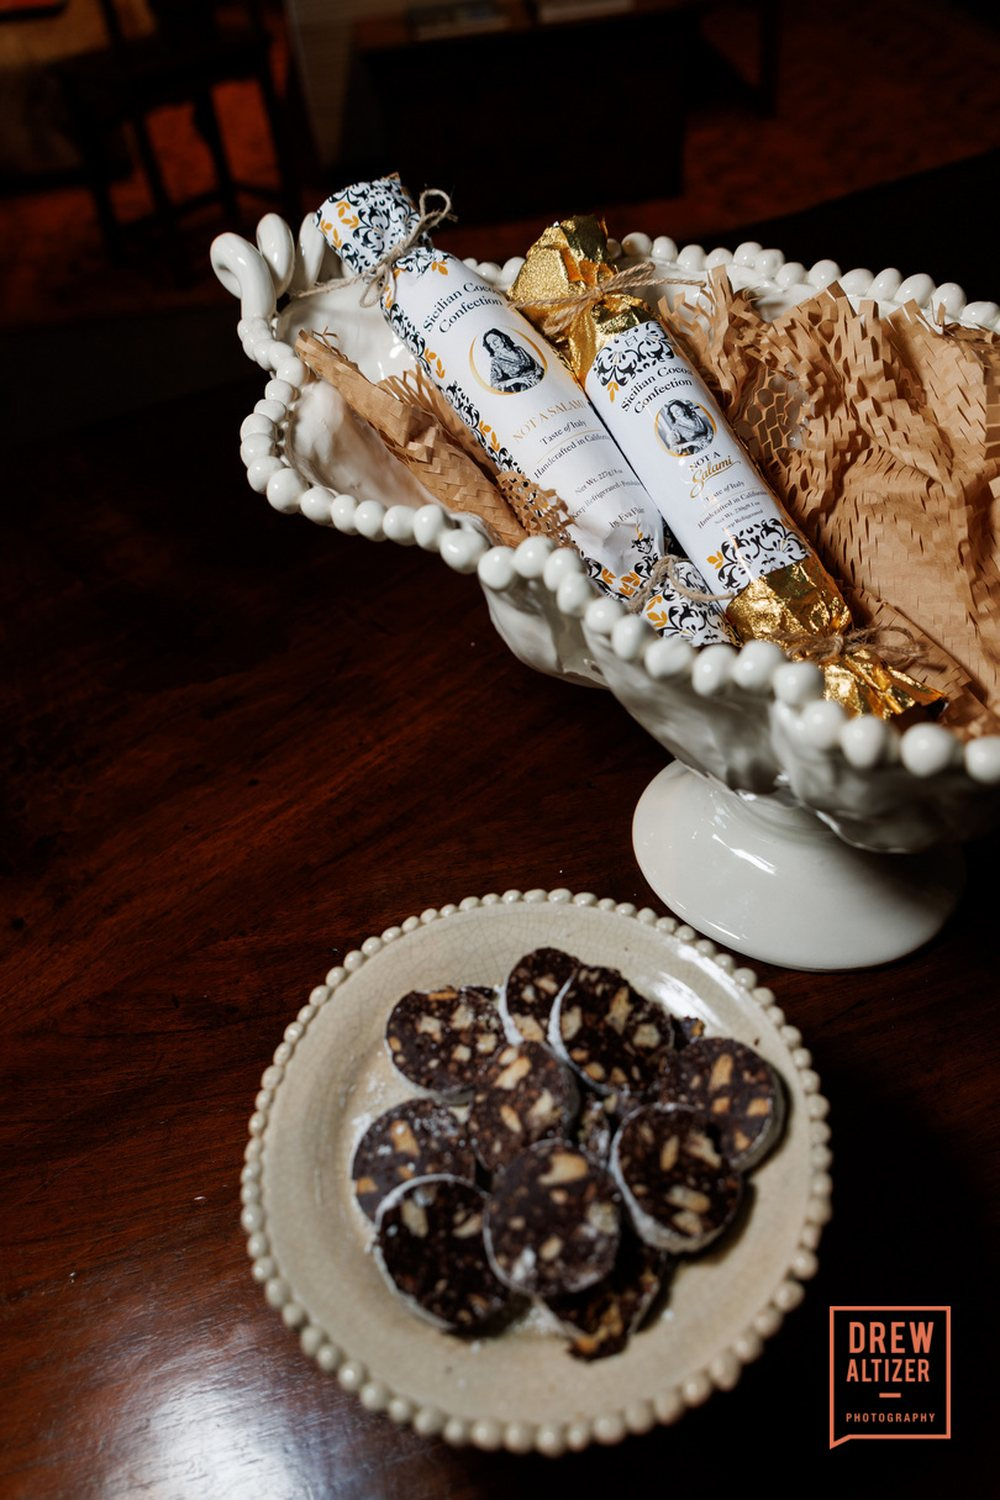
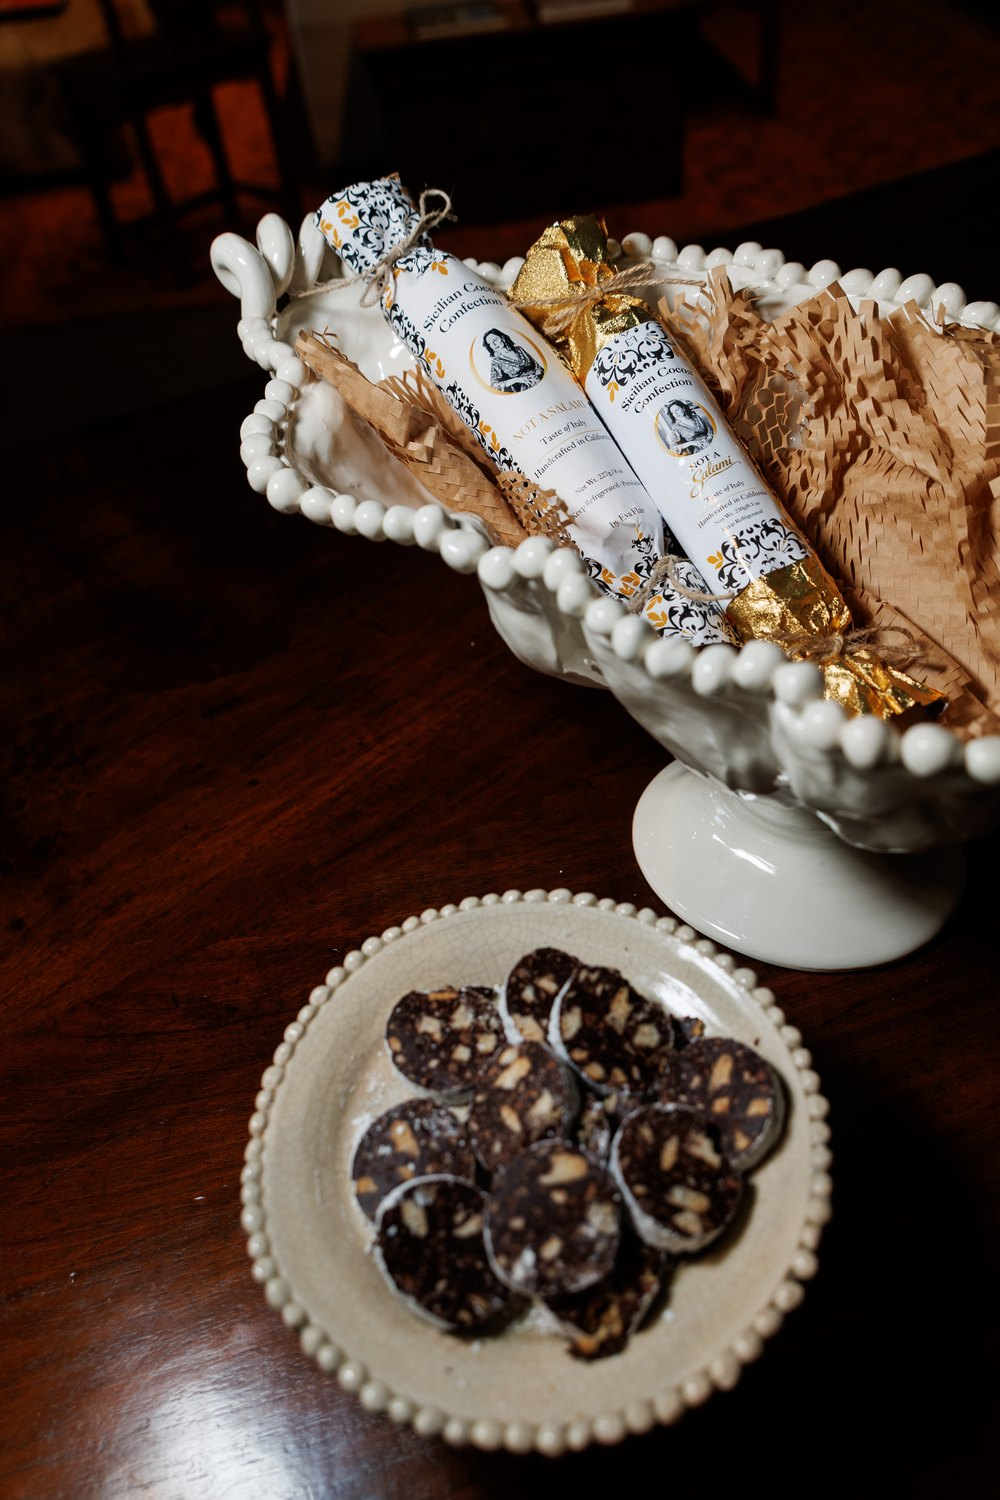
Swap in the watermark-free event photograph; make the GridFS seed self-healing
- backend/static/corporate/occasions-table.jpg regenerated from the clean
  2667x4000 original Eva sent (1000x1500, no photographer credit). The live
  image still carried the 'DREW ALTIZER PHOTOGRAPHY' mark.
- seed_corporate_media now hashes the shipped bytes and re-uploads when they
  change, deleting the superseded GridFS file. Previously it skipped on
  filename alone, so replacing an image never reached the database.

Changed region(s): [[0.806, 0.8587, 0.961, 0.9813], [0.589, 0.2147, 0.682, 0.276], [0.465, 0.276, 0.496, 0.3067]]

diff --git a/backend/server.py b/backend/server.py
@@ -2609,22 +2609,41 @@ async def cleanup_orphaned_media():
 
 async def seed_corporate_media():
     """Mirror the corporate page photographs into GridFS so they survive
-    container redeploys. Idempotent — skips any asset already persisted."""
+    container redeploys.
+
+    Self-healing: when a shipped image is replaced (different bytes), the stored
+    copy is re-uploaded and the superseded GridFS file removed. Skipping on
+    filename alone left the old bytes serving forever — which is how a
+    watermarked photograph stayed live after the clean replacement was committed.
+    """
+    import hashlib
     import mimetypes
 
     for name in _CORPORATE_ASSET_NAMES:
         path = _corporate_dir() / name
         if not path.exists():
             continue
+        payload = path.read_bytes()
+        digest = hashlib.sha256(payload).hexdigest()
         existing = await db.media.find_one(
             {"filename": name, "corporate_asset": True}, {"_id": 0}
         )
-        if existing and existing.get("gridfs_id"):
+        if (existing and existing.get("gridfs_id")
+                and existing.get("content_sha256") == digest):
             continue
         if existing:
+            old_gridfs = existing.get("gridfs_id")
+            if old_gridfs:
+                try:
+                    from bson import ObjectId
+                    await media_bucket.delete(ObjectId(old_gridfs))
+                except Exception as exc:  # noqa: BLE001
+                    logging.getLogger(__name__).warning(
+                        "Could not delete superseded GridFS file %s: %s",
+                        old_gridfs, exc,
+                    )
             await db.media.delete_one({"id": existing["id"]})
 
-        payload = path.read_bytes()
         mime = mimetypes.guess_type(name)[0] or "image/jpeg"
         grid_in = media_bucket.open_upload_stream(
             name,
@@ -2659,10 +2678,11 @@ async def seed_corporate_media():
             "uploaded_at": datetime.now(timezone.utc).isoformat(),
             "uploaded_by": None,
             "gridfs_id": str(grid_in._id),
+            "content_sha256": digest,
             "corporate_asset": True,
         })
         logging.getLogger(__name__).info(
-            "Persisted corporate asset to GridFS: %s", name
+            "Persisted corporate asset to GridFS: %s (%d bytes)", name, len(payload)
         )
 
 
